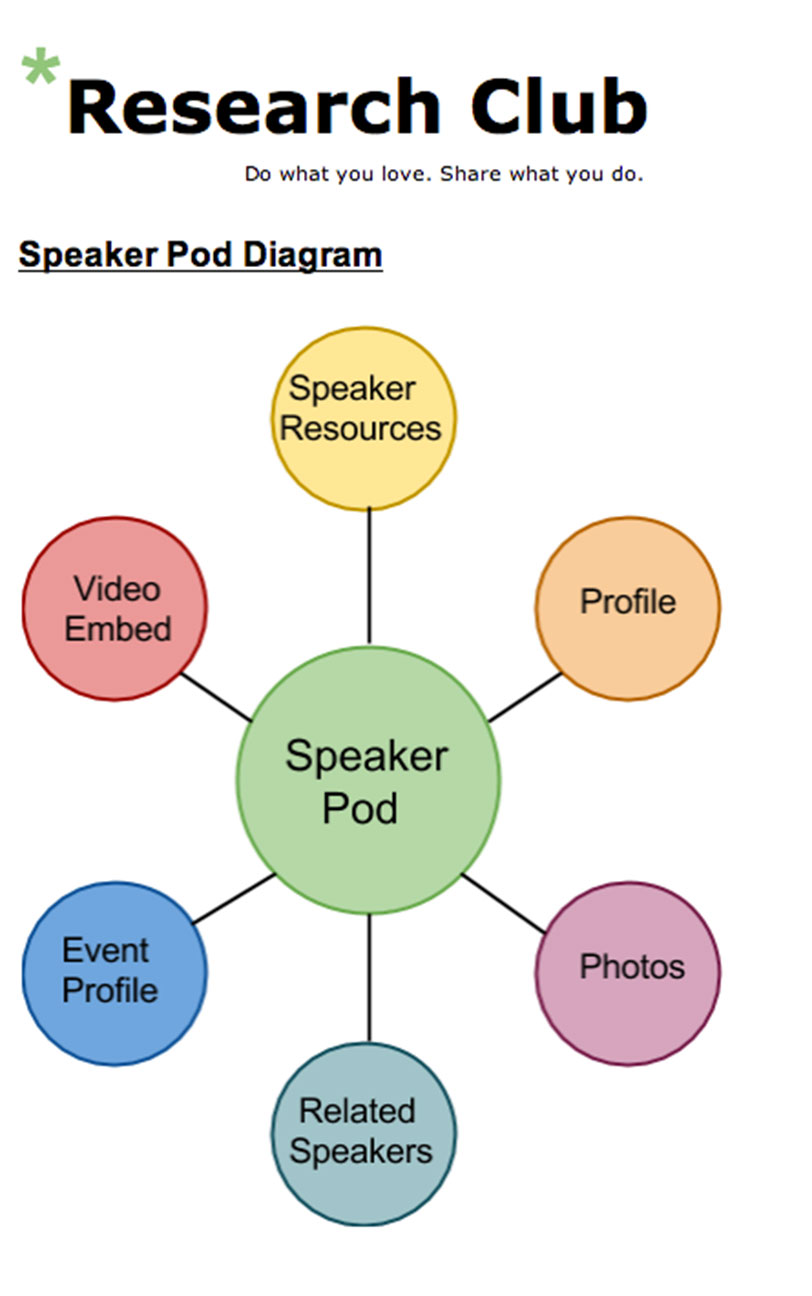
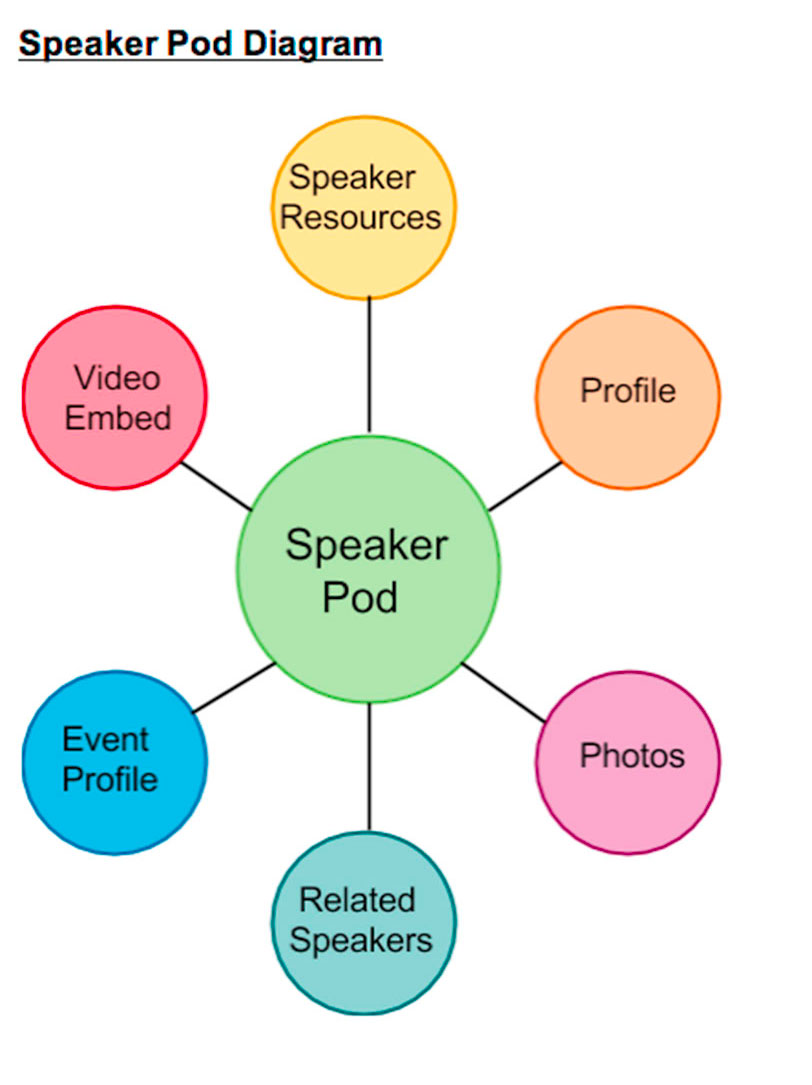
Revises Research Club capstone page

diff --git a/index.html b/index.html
@@ -13,7 +13,7 @@
     <!-- Optional theme -->
     <link rel="stylesheet" href="//netdna.bootstrapcdn.com/bootstrap/3.1.1/css/bootstrap-theme.min.css">
 
-    <title>Arcy Douglass Portfolio</title>
+    <title>Arcy Douglass Research Club Project</title>
 
     <!-- Bootstrap core CSS -->
     <link href="../../dist/css/bootstrap.min.css" rel="stylesheet">
@@ -73,59 +73,16 @@
       <div class="jumbotron">
           <section id="contact">
           <h2>Research Club Workflow</h2>
+          <p>The goal of this project was to develop ways Research Club could present the information generated from a series of informal talks and find out the best to implement it in Pods. Over the course of the project, I gained a much deeper of understanding of how to organizes posts and pages  but also strategies to take advantage of templating within the WordPress hierarchy. Before starting the project I did not know anything about Pods but now I know how I can use Pods to organize complex sets of information and how to use the templates to make sure that it displays correctly.</p>
+          <p></p>
+          <ul>
+          <li><a href="#section1" class="tableOfContents">Background</a></li>
+          <li><a href="#section2" class="tableOfContents">Diagrams</a></li>
+          <li><a href="#section3" class="tableOfContents">Organization</a></li>
+          <li><a href="#section4" class="tableOfContents">Implementation</a></li>
+          <li><a href="#section5" class="tableOfContents">Templates</a></li>
+          </ul>
       </div>
-
-      <section id="section1">
-        <a href="http://breezeapp.herokuapp.com/" target="_blank"><h3>Breeze</h3></a>
-        <p class="projectDescription">For our final project in the Full Stack Javascript Class, I was part of a team that developed a web app that we called Breeze.  Breeze provides current wind conditions for ten of the best kite surfing locations in the Columbia River Gorge. We access data from the third party API Forecast.io with our server, load the data into Orchestrate and display the data to the client's browser by integrating Backbone and D3.  All of the site navigation is handled locally with Backbone routes.  The 48 hour wind forecast chart was rendered in D3.</p>
-        <a href="#BreezeModal" data-toggle="modal" data-target="#BreezeModal">Click To Learn More </button>
-        <p></p>
-        <a href="https://github.com/dailyCupOfJavaScript/breeze" target="_blank">Github Link</a>
-        <p></p>
-        <a href="https://trello.com/b/QVll7HKc/dailycupjavascript" target="_blank"> Project Overview on Trello Link</a>
-        <p></p>
-        <a href="http://breezeapp.herokuapp.com/" target="_blank"><img src="images/Breeze1.jpg" alt="Breeze app screenshot"/></a>
-        <p></p>
-        <a href="http://breezeapp.herokuapp.com/" target="_blank"><img src="images/Breeze2.jpg" alt="Breeze app screenshot"/></a>
-        <p></p>
-      </section>
-
-
-       <div class="modal fade" id="BreezeModal" tabindex="-1" role="dialog" aria-labelledby="myModalLabel" aria-hidden="true">
-            <div class="modal-dialog">
-              <div class="modal-content">
-                <div class="modal-header">
-                  <button type="button" class="close" data-dismiss="modal" aria-hidden="true">&times;</button>
-                  <h4 class="modal-title" id="myModalLabel">Breeze App</h4>
-                </div>
-                <div class="modal-body">
-                  <p>Breeze is based on simple idea:  What is the best place to kite surfing in the Columbia River Gorge now and in the future?  Our solution was to identify the ten most popular kite surfing span over 40 miles from The Dalles to Rooster Rocks.  After converting these locations, to lattitude and longitude coordinates our Node Express make queries to a third party API called Forecast.io. </p>
-
-                  <p>Under our free plan for Orchestrate, Forecast only allows us to make a thousand calls per day. Our solution was to have our server store the current weather data in a database.  The database that we are using for this project is Orchestrate.io.  Orchestrate stores all of the weather data so that even if we were to get a million hits we would still not exceed the Forecast limits. Our server will update Orchestrate with the current weather conditions every 10 minutes during the day and every hour at night.</p>
-
-                  <p>On the front end, our project is organized using Backbone.  Backbone is a MV* frameworks that allows us to organize the weather data according to models, collections and views.  Each page is a separate route so that the browser does not have to go back to the server for more data.  All of the data for all of the views are downloaded all at once. Each route organizes and displays the data in a unique view.</p>
-
-                  <p>Our main view is called the Table View which is a table that is sorted and color coded according the highest winds.  The next view is called the location view which provides more detailed information about a specific location.  The final view is a detailed view of a specific location that also includes both a weekly and a 48 hour forecast.  The hourly forecast includes a D3 chart that allows the user to see how the wind will rise and fall over the next two days.</p>
-                  <p></p> 
-                </div>
-                <div class="modal-footer">
-                  <button type="button" class="btn btn-default" data-dismiss="modal">Close</button>
-                </div>
-              </div>
-            </div>
-          </div>
-
-
-       <section id="section2">
-        <a href="#ResearchModal" data-toggle="modal" data-target="#ResearchModal"><h3>Research Club</h3></a>
-        <p class="projectDescription">The goal of this project was to develop ways Research Club could present the information generated from a series of informal talks and find out the best to implement it in Pods. Over the course of the project, I gained a much deeper of understanding of how to organizes posts and pages  but also strategies to take advantage of templating within the WordPress hierarchy. Before starting the project I did not know anything about Pods but now I know how I can use Pods to organize complex sets of information and how to use the templates to make sure that it displays correctly.</p>
-        <a href="#ResearchModal" data-toggle="modal" data-target="#ResearchModal">Click To Learn More</button>
-        <p></p>
-        <a href="#ResearchWorkFlowModal" data-toggle="modal" data-target="#ResearchWorkFlowModal">Click for Project Work Flow</button>
-        <p></p>
-        <a href="#ResearchModal" data-toggle="modal" data-target="#ResearchModal"><img src="images/revised_speaker_pod.jpg" alt="Research Club pod diagram"/></a>
-        <p></p>
-      </section>
 
        <div class="modal fade" id="ResearchModal" tabindex="-1" role="dialog" aria-labelledby="myModalLabel" aria-hidden="true">
             <div class="modal-dialog">
@@ -152,82 +109,74 @@
           </div>
 
 
-           <div class="modal fade" id="ResearchWorkFlowModal" tabindex="-1" role="dialog" aria-labelledby="myModalLabel" aria-hidden="true">
-            <div class="modal-dialog">
-              <div class="modal-content">
-                <div class="modal-header">
-                  <button type="button" class="close" data-dismiss="modal" aria-hidden="true">&times;</button>
-                  <h4 class="modal-title" id="myModalLabel">Research Club Work Flow</h4>
-                </div>
-                <div class="modal-body">
-                  <p>Research Club has monthly meetings, usually over brunch, where participants will stand up and give lightning talks about any subject that they are interested in. </p> 
+          <section id="section1">
+            <a href="#ResearchModal" data-toggle="modal" data-target="#ResearchModal"><h3>Background</h3></a>
+            <p class="projectDescription"> <p>Before I was brought on to the project, the client had decided that they will build a new WordPress site and that the information related to the talks will be organized by a plugin called Pods. My job was to analyze and organize the way Research Club should present its information and find out the best to implement it in Pods. Over the course of the project, I gained a much deeper of understanding of how to organizes posts and pages  but also strategies to take advantage of templating within the WordPress hierarchy. Before starting the project I had only use WordPress for blogs, now I know how I can use Pods to organize complex sets of information and how to use the templates to make sure that it displays correctly.</p> 
 
-                  <img src="images/WordPress_diagram.jpg" alt="Standard WordPress organization" />
-                  <p></p> 
-                </div>
-                <div class="modal-footer">
-                  <button type="button" class="btn btn-default" data-dismiss="modal">Close</button>
-                </div>
-              </div> 
-            </div>
-          </div>
+            <p>As for skills that I developed it clear that I have much better and deeper understanding of WordPress.  We were able to build a new database specific to the project needs on top of the existing WordPress structure.  Because I was able to follow the schedule that we outlined at the beginning of the project, the project was delivered on time and on budget.  As for Project Management, this was the first time that I used Basecamp on a relatively large, complex project and I found it to be a very useful tool in terms of organizing our discussions as well as tracking resources that might be implemented in the future.</p> 
 
+            <p>Before this project, I had only been working on websites that I built from the ground up so I was happy to have the experience of coming on to a project midway through and discovering ways within my scope to make a positive contribution. I also liked that these talks were generating a lot of data and that it was my job to make that data accessible. The natural extension of this project would be ways to find out how the relationships between those data point might be visualized.</p> </p>
+            <p></p>
+          </section>
 
-
-      <section id="section3">
-        <a href="http://arcydouglass.github.io/d3_wf_donut" target="_blank"><h3>D3 Word Frequency Chart</h3></a>
-        <p class="projectDescription">An experiment in counting and charting the keywords of Milton's text Paradise Lost.  The words are displayed in a donut using the the pie layout from the D3.</p>
-        <a href="https://github.com/arcydouglass/d3_bubble" target="_blank">Github Link</a>
-        <p></p>
-        <a href="http://arcydouglass.github.io/d3_wf_donut" target="_blank"><img src="images/d3_pieChart.png" alt="D3 pie chart screenshot"/></a>
-        <p></p>
-      </section>
+          <section id="section2">
+            <h3>Diagrams</h3></a>
+            <p class="projectDescription">WordPress organizes posts according to Categories and Tags.  Not only does this allow the posts to be searchable but also allows the posts to be filtered.  This is a diagram of a standard WordPress post:</p>
+            <p></p>
+            <img src="images/WordPress_diagram.jpg" alt="WordPress Categories and Tags" class="small"/></a>
+            <p></p>
+            <p class="projectDescription"eaker Pod that would contain or have references to several different types of information including any speaker resources like their personal website, speaker photos, any social media, information about the event itself and any videos that were associated with the talk.  Here was our first diagram: <p>
+            <p></p>
+            <img src="images/speaker_pod1.jpg" alt="Speaker Pod diagram" class="medium"/></a>
+            <p></p>
+            <p class="projectDescription"> I extended the diagram by adding some of the properties that might be added to the Pods to match the data that was going to be generated by the speaker. <p>
+            <p></p>
+            <img src="images/speaker_pod_names.jpg" alt="Speaker Pod Names"/></a>
+            <p></p>
+            <p class="projectDescription"> Up until this point, the video of the speaker was an aspect of the Speaker Pod.  After some tests, it was realized that not only would this would allow the speaker to have only one video that would be associated with it.  This was a problem because if speaker was to return to Research Club then they would automatically generate multiple videos.The solution was to allow both Videos and the Events to become their own pods.  This allows the videos to be independent of the speaker and allow any Speaker or Event Pod to have multiple videos.  This was the final working diagram: <p>
+            <p></p>
+            <img src="images/revised_speaker_pod.jpg" alt="Revised Speaker Pod" class="large"/></a>
+          </section>
 
 
-      <section id="section4">
-        <a href="http://arcydouglass.github.io/arcDrawingSite/" target="_blank"><h3>SVG Experiment</h3></a>
-        <p class="projectDescription">This project was an experiment to incorporate SVG elements into a web page. The arcs are generated according to an algorithm that assigns a location based on an external source like the digits of pi or a random number generator.   </p>
-        <a href="https://github.com/arcydouglass/arcDrawingSite" target="_blank">Github Link</a>
-        <p></p>
-        <a href="#CircleModal" data-toggle="modal" data-target="#CircleModal">Learn More About Related Work</a>
-        <p></p>
-        <a href="http://arcydouglass.github.io/arcDrawingSite/" target="_blank"><img src="images/arcDrawingSite.jpg" alt="Arc Drawing screenshot"/></a>
-        <p></p>
-
-          <div class="modal fade" id="CircleModal" tabindex="-1" role="dialog" aria-labelledby="myModalLabel" aria-hidden="true">
-          <div class="modal-dialog">
-            <div class="modal-content">
-              <div class="modal-header">
-                <button type="button" class="close" data-dismiss="modal" aria-hidden="true">&times;</button>
-                <h4 class="modal-title" id="myModalLabel">Click to Learn More</h4>
-              </div>
-              <div class="modal-body">
-                <p>Here are some experiments creating complex spaces with circles</p>
-                 <img src="images/yellow1.jpg" alt="Experiment"id="modalRelatedImage"/>
-                 <p></p>
-                 <img src="images/black.jpg" alt="Experiment"id="modalRelatedImage"/>
-                 <p></p>
-                 <img src="images/magenta.jpg" alt="Experiment"id="modalRelatedImage"/>
-                 <p></p>
-                 <img src="images/cyan.jpg" alt="Experiment"id="modalRelatedImage"/>
-              </div>
-              <div class="modal-footer">
-                <button type="button" class="btn btn-default" data-dismiss="modal">Close</button>
-              </div>
-            </div>
-          </div>
-        </div>
-      </section>
+          <section id="section3">
+            <h3>Organization</h3></a>
+            <p class="projectDescription">The next step was to apply the relationships of defined in the diagrams inside the WordPress plugins called Pods.  Pods would allow me to structure the data generated by Research Club within the clearly defined fields of each Pod.  This meant that the Speaker Pod would need places to store all of the data associated with each talk including photos, videos, blog posts and social media links. Each field in the Pod has a specific characteristic taht defines what kind of data is allowed in the field. By using bi-directional fields I was able to share data fields between two pods. Here is the Speaker Pod definition:</p>
+            <p></p>
+            <img src="images/speaker_pod.jpg" alt="Speaker Pod" class="imageMenus"/></a>
+            <p></p>
+            <p class="projectDescription">After some experimentation, I was able to create a similiar definition for the Event Pod.</p>
+            <p></p>
+            <img src="images/event_pod.jpg" alt="Event Pod" class="imageMenus"/></a>
+            <p></p>
+          </section>
 
 
-       <section id="section5">
-        <a href="http://arcydouglass.github.io/massage" target="_blank"><h3>Blueprint for Balance</h3></a>
-        <p class="projectDescription">This project was an assignment for the Portland Code School Primer Class. The purpose of the project was for our team to learn the basics of HTML, CSS and Git.  </p>
-        <a href="https://github.com/arcydouglass/massage" target="_blank">Github Link</a>
-        <p></p>
-        <a href="http://arcydouglass.github.io/massage" target="_blank"><img src="images/Blueprint.jpg" alt="Blueprint for Balance screenshot"/></a>
-        <p></p>
-      </section>
+          <section id="section4">
+            <h3>Implementation</h3></a>
+            <p class="projectDescription">Once each one of the Pods was defined, it was time to begin to load them up with placeholder data.  Here is an example of a typical speaker:</p>
+            <p></p>
+            <img src="images/speaker_example.jpg" alt="Speaker example" class="imageMenus"/></a>
+            <p></p>
+            <p class="projectDescription">A typical event with data was developed from the Event Pod</p>
+            <p></p>
+           <img src="images/event_example.jpg" alt="Event example" class="imageMenus"/></a>
+            <p></p>
+          </section>
+
+
+          <section id="section5">
+            <h3>Templates</h3></a>
+            <p class="projectDescription">In order to format the data that is entered into the Speaker Pod fields, I needed to use a template.  The template was able to take advantage of Pod's magic tags to grab fields from a pod and place the data from the field in an HTML document. By iterated through a field, I was able to pick up multiple values like if the speaker had multiple videos associated with a talk or if an event is associated with multiple speakers.  Here is an example of the some of the Speaker Pod template:  </p>
+            <p></p>
+            <img src="images/speaker_template.jpg" alt="Speaker Template"/></a>
+            <p></p>
+            <p class="projectDescription">The template is rendered as an HTML document as in this example of a speaker page: </p>
+            <p></p>
+            <img src="images/speaker_page.jpg" alt="Speaker Page"/></a>
+          </section>
+          
+
 
     
 

diff --git a/styles/navbar-fixed-top.css b/styles/navbar-fixed-top.css
@@ -1,10 +1,14 @@
 body {
   padding-top: 70px;
-  background: url('../images/BG.jpg') center center fixed; 
+  background: url('../images/BG4.jpg') center center fixed; 
 		  [-webkit-background-size: cover;
   		  -moz-background-size: cover;
   		  -o-background-size: cover;
   		  background-size: cover;]
+}
+
+.container {
+  width: 960px;
 }
 
 a {
@@ -13,8 +17,25 @@ a {
 
 
 img {
-  width: 100%;
+  width: 80%;
 }
+
+.small {
+  width: 40%;
+}
+
+.medium {
+  width: 55%;
+}
+
+.large {
+  width: 90%;
+}
+
+.imageMenus {
+  width: 60%;
+}
+
 
 .jumbotron {
 	width: 100%;
@@ -26,5 +47,13 @@ img {
 
 .projectDescription {
   font-size: 1.2em;
+}
+
+ul {
+  list-style-type: none;
+}
+
+.tableOfContents {
+  font-size: 1.1em;
 }
 
